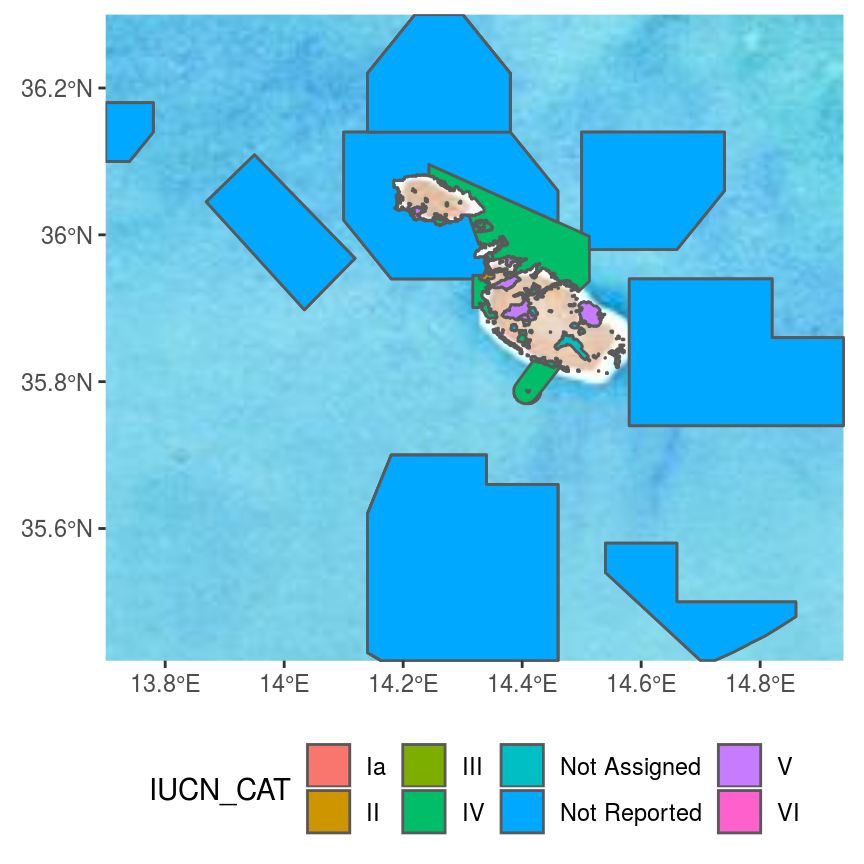
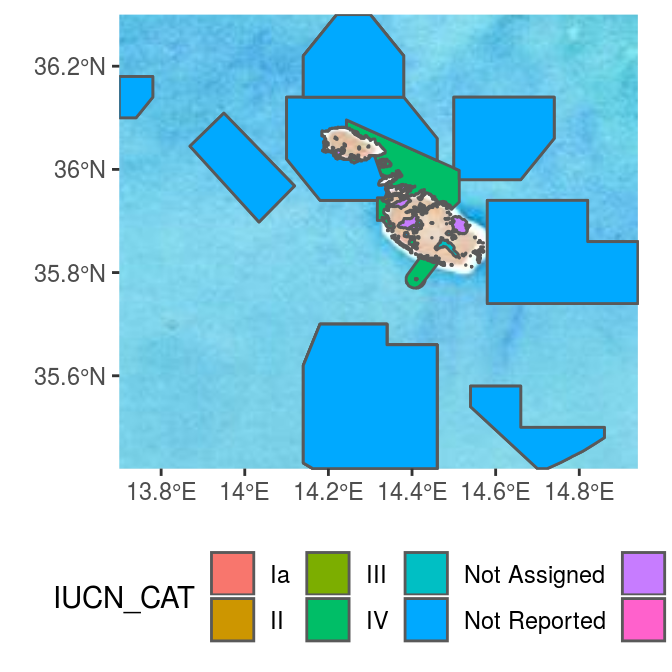
update readme

diff --git a/docs/index.html b/docs/index.html
@@ -141,8 +141,7 @@ bg &lt;-<span class="st"> </span><span class="kw"><a href="https://www.rdocument
 <span class="kw"><a href="https://www.rdocumentation.org/packages/ggmap/topics/ggmap">ggmap</a></span>(bg) <span class="op">+</span>
 <span class="kw">geom_sf</span>(<span class="kw">aes</span>(<span class="dt">fill =</span> IUCN_CAT), <span class="dt">data =</span> mlt_pa_data, <span class="dt">inherit.aes =</span> <span class="ot">FALSE</span>) <span class="op">+</span>
 <span class="kw">theme</span>(<span class="dt">axis.title =</span> <span class="kw">element_blank</span>(), <span class="dt">legend.position =</span> <span class="st">"bottom"</span>)</code></pre></div>
-<p align="center">
-<img src="reference/figures/readme-map.png" width="100%" style="display:block;margin:auto;"></p>
+<p><img src="reference/figures/README-readme-map-1.png" width="50%" style="display: block; margin: auto;"></p>
 <p>For more examples using the <em>wdpar R</em> package, please refer to the <a href="https://github.com/prioritizr/wdpar/articles/wdpar.html">package vignette</a>.</p>
 </div>
 <div id="citation" class="section level3">

diff --git a/README.md b/README.md
@@ -90,7 +90,7 @@ geom_sf(aes(fill = IUCN_CAT), data = mlt_pa_data, inherit.aes = FALSE) +
 theme(axis.title = element_blank(), legend.position = "bottom")
 ```
 
-<img src="man/figures/README-unnamed-chunk-8-1.png" style="display: block; margin: auto;" />
+<img src="man/figures/README-readme-map-1.png" width="80%" style="display: block; margin: auto;" />
 
 For more examples using the *wdpar R* package, please refer to the [package vignette](https://github.com/prioritizr/wdpar/articles/wdpar.html).
 
